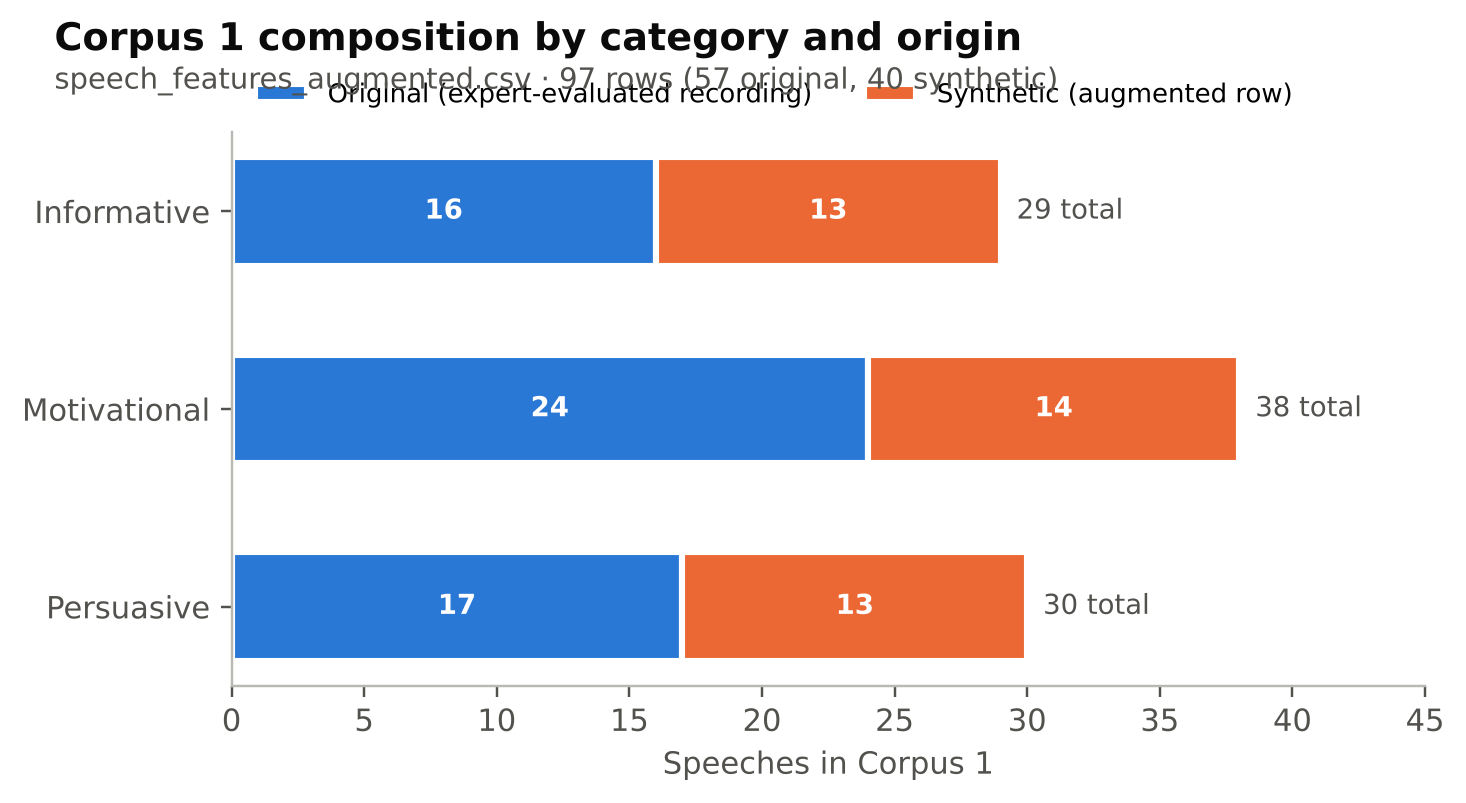
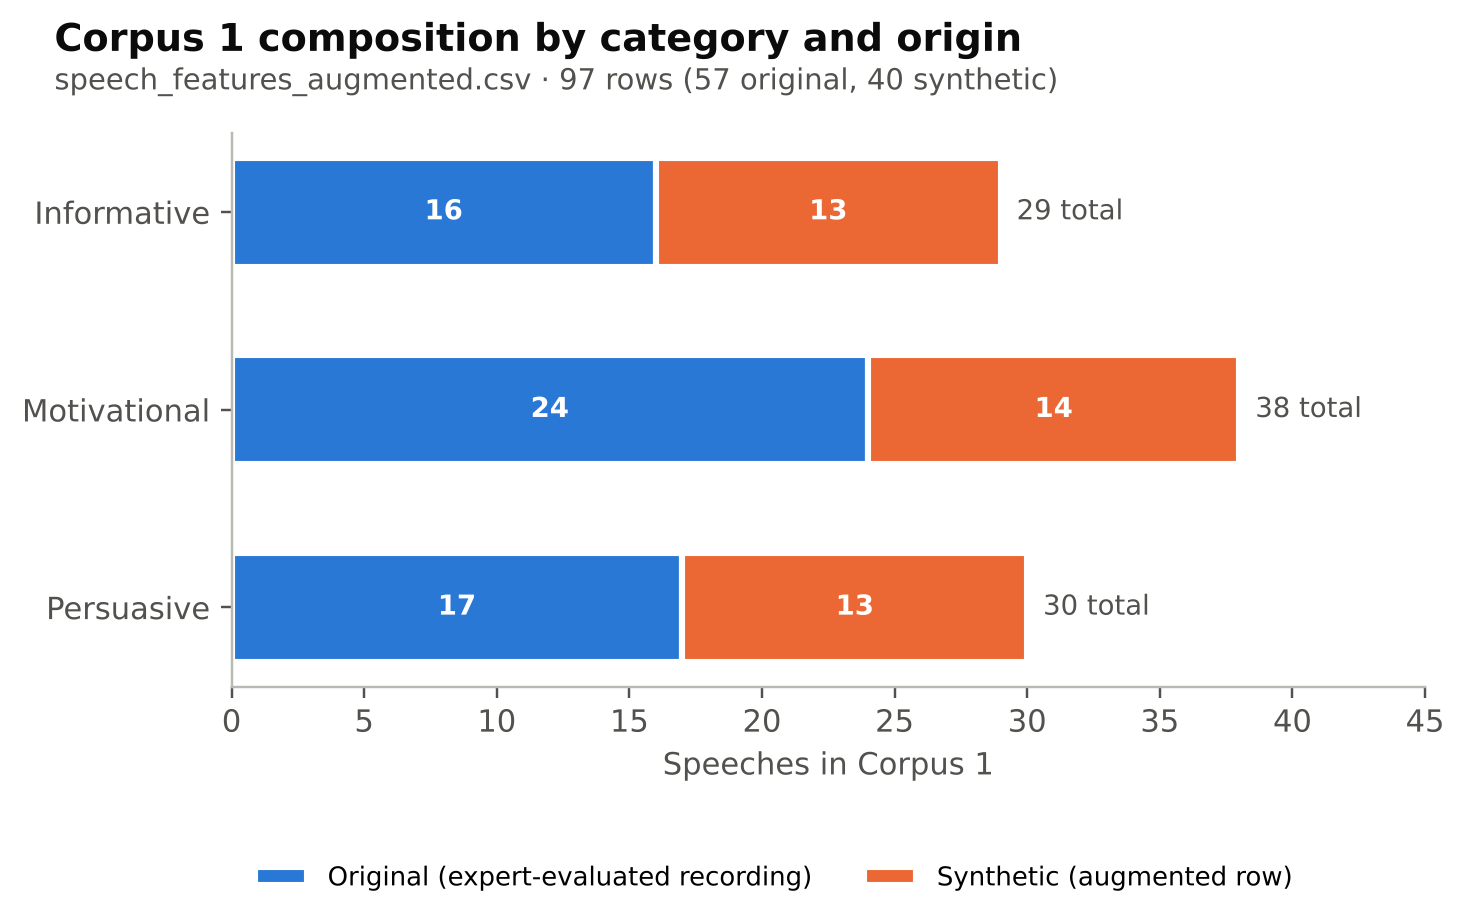
Fix legend placement in Corpus 1 composition figure
Claude-Session: https://claude.ai/code/session_011aSPqvTw9FPJk6nse7scX4

diff --git a/thesis_figures/figs.py b/thesis_figures/figs.py
@@ -26,7 +26,7 @@ for i in range(3):
     ax.text(o[i]+s[i]/2,i,str(s[i]),va="center",ha="center",color="white",fontsize=9,fontweight="bold")
     ax.text(o[i]+s[i]+0.6,i,f"{o[i]+s[i]} total",va="center",color=TS,fontsize=9)
 ax.set_yticks(y,cats); ax.invert_yaxis(); ax.set_xlim(0,45); ax.set_xlabel("Speeches in Corpus 1")
-ax.legend(loc="lower left",frameon=False,fontsize=8.5,bbox_to_anchor=(0,1.0),ncol=2)
+ax.legend(loc="upper left",frameon=False,fontsize=8.5,bbox_to_anchor=(0,-0.28),ncol=2)
 fin(fig,"fig_corpus1_composition.png","Corpus 1 composition by category and origin","speech_features_augmented.csv · 97 rows (57 original, 40 synthetic)")
 
 # Fig B: with vs without retrieval, mean MAE, two panels
